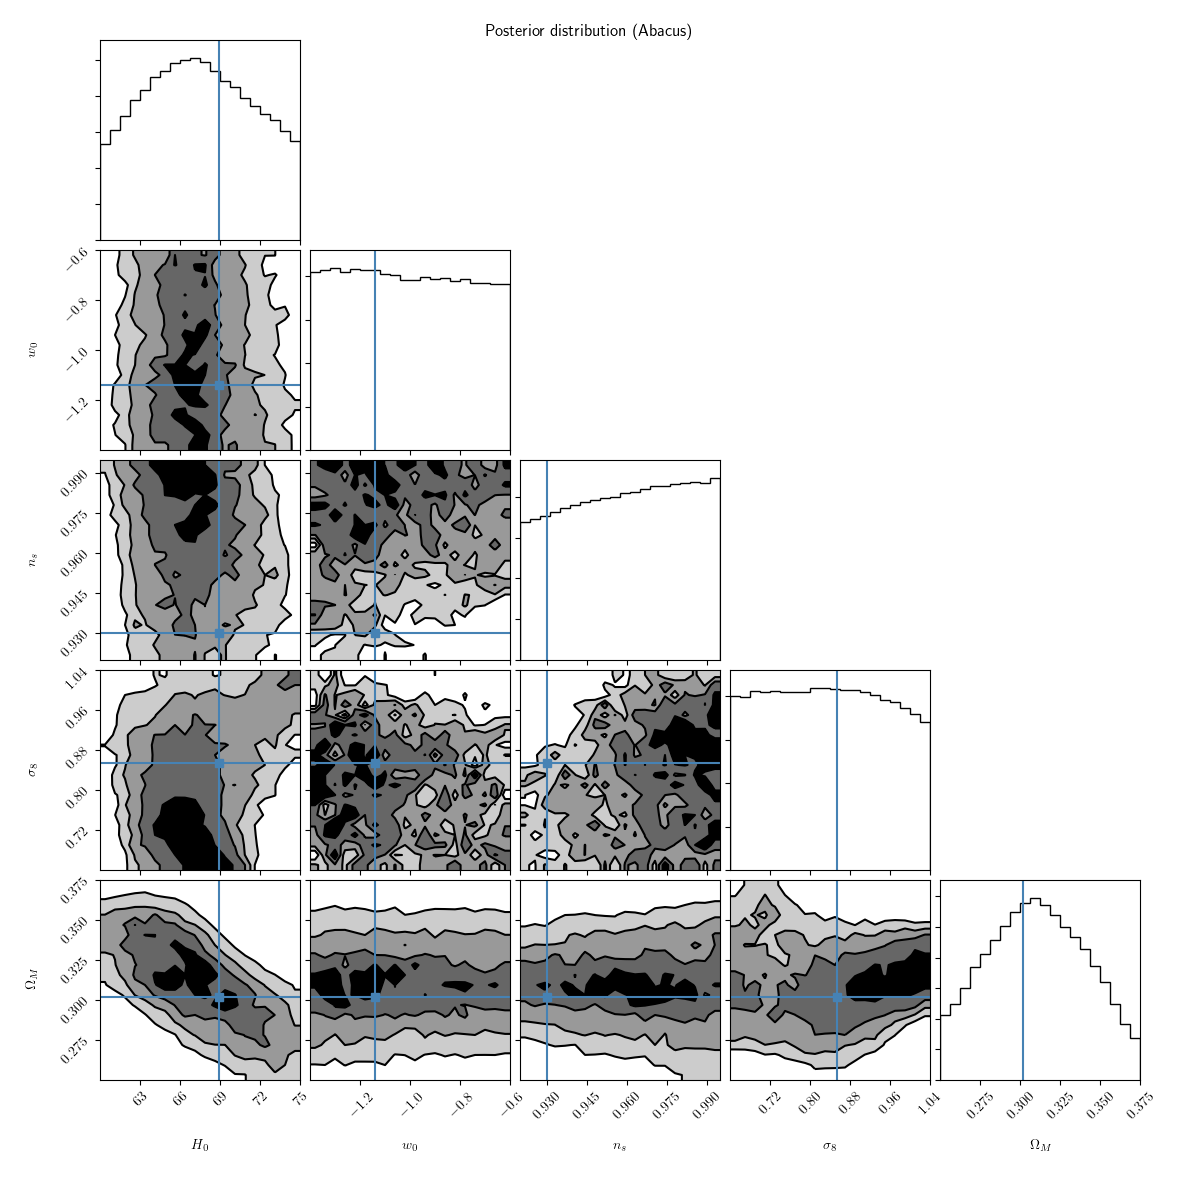
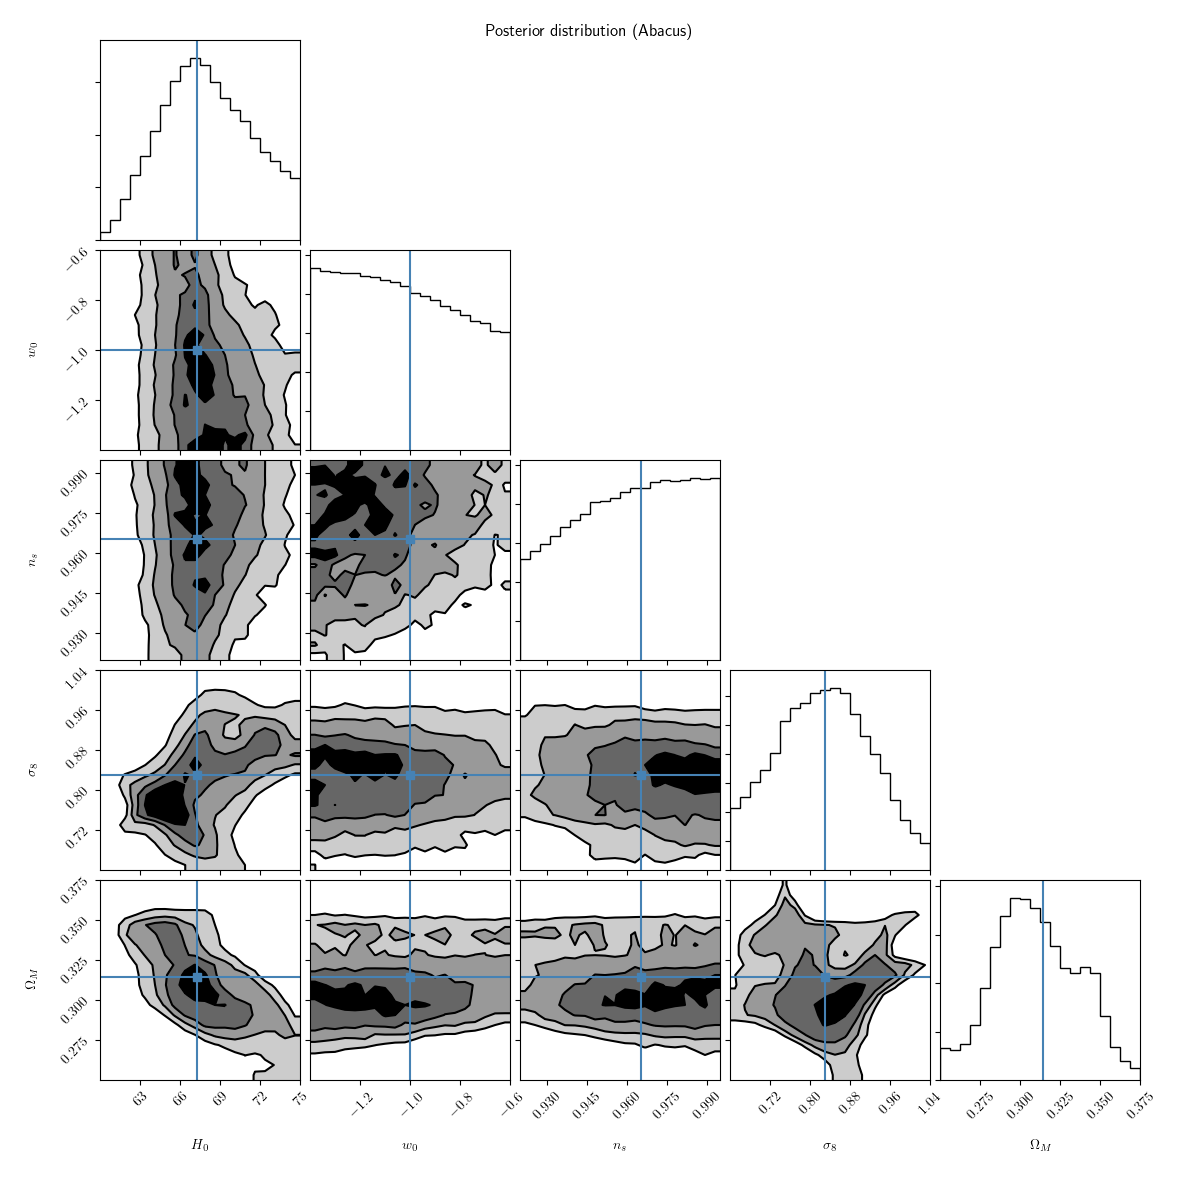
drew figure 12 for l and b, it seems that b is useless but l is very usefull. Need to investigate why, with its noise it should be useless

diff --git a/scripts_EMCEE/draw_figure_12_EMCEE_b.py b/scripts_EMCEE/draw_figure_12_EMCEE_b.py
@@ -6,25 +6,24 @@ import emcee
 import sys
 import os
 import matplotlib
-matplotlib.use('Agg')
 
 import matplotlib.pyplot as plt
 from matplotlib import rc
 rc('text', usetex = True)
 
-sys.path.append('/home/astro/magnan/Repository_Stage_3A')
-#sys.path.append('C:/Users/Nathan/Documents/D - X/C - Stages/Stage 3A/Repository_Stage_3A')
+#sys.path.append('/home/astro/magnan/Repository_Stage_3A')
+sys.path.append('C:/Users/Nathan/Documents/D - X/C - Stages/Stage 3A/Repository_Stage_3A')
 import GP_tools_simple as GP
-os.chdir('/home/astro/magnan')
-#os.chdir('C:/Users/Nathan/Documents/D - X/C - Stages/Stage 3A/Repository_Stage_3A')
+#os.chdir('/home/astro/magnan')
+os.chdir('C:/Users/Nathan/Documents/D - X/C - Stages/Stage 3A/Repository_Stage_3A')
 
 print("All imports successful")
 
 ## Importing the whole Abacus data
 print("starting to load the data")
 
-target = "/home/astro/magnan/Repository_Stage_3A/Full_MST_stats_Abacus/MST_stats_Catalogue_"
-#target = "C:/Users/Nathan/Documents/D - X/C - Stages/Stage 3A/Repository_Stage_3A/Full_MST_stats_Abacus/MST_stats_Catalogue_"
+#target = "/home/astro/magnan/Repository_Stage_3A/Full_MST_stats_Abacus/MST_stats_Catalogue_"
+target = "C:/Users/Nathan/Documents/D - X/C - Stages/Stage 3A/Repository_Stage_3A/Full_MST_stats_Abacus/MST_stats_Catalogue_"
 
 dict = {'X_b' : [], 'Y_b' : [], 'Y_b_std' : []}
 
@@ -42,11 +41,11 @@ print("data fully loaded")
 print("Connexion successfull")
 print("starting to load the data")
 
-target = "/home/astro/magnan/Repository_Stage_3A/data_set_Abacus/data_set_Abacus_"
-#target = 'C:/Users/Nathan/Documents/D - X/C - Stages/Stage 3A/Repository_Stage_3A/data_set_Abacus/data_set_Abacus_'
+#target = "/home/astro/magnan/Repository_Stage_3A/data_set_Abacus/data_set_Abacus_"
+target = 'C:/Users/Nathan/Documents/D - X/C - Stages/Stage 3A/Repository_Stage_3A/data_set_Abacus/data_set_Abacus_'
 
 """
-l = 10->15
+b = 19->24
 """
 
 n_points_per_simulation_complete = 36
@@ -64,11 +63,11 @@ for i in range(n_fiducial + n_simulations):
         Y_data_new[j] = max(Y_data_new[j], 0)
     
     if i == 0:
-        X_b = X_data_new[10 : 15, 0 : 6]
-        Y_b = Y_data_new[10 : 15]
+        X_b = X_data_new[19 : 24, 0 : 6]
+        Y_b = Y_data_new[19 : 24]
     else:
-        X_b = np.concatenate((X_data_new[10 : 15, 0:6], X_b))
-        Y_b = np.concatenate((Y_data_new[10 : 15], Y_b))
+        X_b = np.concatenate((X_data_new[19 : 24, 0:6], X_b))
+        Y_b = np.concatenate((Y_data_new[19 : 24], Y_b))
 
 X_b_planck = X_b[:(n_fiducial) * 5]
 
@@ -246,8 +245,8 @@ print("Starting to define the problem")
 n_dims = 5
 n_walkers = 32
 
-my_path = os.path.abspath('/home/astro/magnan/Repository_Stage_3A/EMCEE/')
-#my_path = os.path.abspath('C:/Users/Nathan/Documents/D - X/C - Stages/Stage 3A/Repository_Stage_3A/EMCEE/')
+#my_path = os.path.abspath('/home/astro/magnan/Repository_Stage_3A/EMCEE/')
+my_path = os.path.abspath('C:/Users/Nathan/Documents/D - X/C - Stages/Stage 3A/Repository_Stage_3A/EMCEE/')
 my_file = 'Figure_12_b'
 my_file = os.path.join(my_path, my_file)
 backend = emcee.backends.HDFBackend(my_file)
@@ -276,7 +275,7 @@ print("MCMC analysis done")
 print("Starting to plot the results")
 
 Coordinates_bimits = [[60, 75], [-1.40, -0.60], [0.920, 0.995], [0.64, 1.04], [0.250, 0.375]]
-Expected_values_01 = X_d_planck[0, 0:5]
+Expected_values_01 = X_b_planck[0, 0:5]
 Expected_values = prior(Expected_values_01)
 Parameters = ['H_{0}', 'w_{0}', 'n_{s}', '\sigma_{8}', '\Omega_{M}']
 
@@ -314,19 +313,19 @@ for i in range(5):
 
 plt.suptitle("Posterior distribution (Abacus)")
 
-my_path = os.path.abspath('/home/astro/magnan/Repository_Stage_3A/Figures')
-#my_path = os.path.abspath('C:/Users/Nathan/Documents/D - X/C - Stages/Stage 3A/Repository_Stage_3A/Figures')
+#my_path = os.path.abspath('/home/astro/magnan/Repository_Stage_3A/Figures')
+my_path = os.path.abspath('C:/Users/Nathan/Documents/D - X/C - Stages/Stage 3A/Repository_Stage_3A/Figures')
 my_file = 'Figure_12_EMCEE_b'
 my_file = os.path.join(my_path, my_file)
 plt.savefig(my_file)
-#plt.show()
+plt.show()
 
 print("Results saved and plotted")
 
 ## Plotting 2
 import corner
 Labels = ['$H_{0}$', '$w_{0}$', '$n_{s}$', '$\sigma_{8}$', '$\Omega_{M}$']
-Expected_values_01 = X_d_planck[0, 0:5]
+Expected_values_01 = X_b_planck[0, 0:5]
 Truths = prior(Expected_values_01)
 
 flat_samples = sampler.get_chain(discard = 0, thin = 2, flat=True)
@@ -334,9 +333,9 @@ flat_samples = sampler.get_chain(discard = 0, thin = 2, flat=True)
 corner.corner(flat_samples, labels = Labels, truths = Truths, plot_datapoints = False, fill_contours = True)
 plt.suptitle("Posterior distribution (Abacus)")
 
-my_path = os.path.abspath('/home/astro/magnan/Repository_Stage_3A/Figures')
-#my_path = os.path.abspath('C:/Users/Nathan/Documents/D - X/C - Stages/Stage 3A/Repository_Stage_3A/Figures')
+#my_path = os.path.abspath('/home/astro/magnan/Repository_Stage_3A/Figures')
+my_path = os.path.abspath('C:/Users/Nathan/Documents/D - X/C - Stages/Stage 3A/Repository_Stage_3A/Figures')
 my_file = 'Figure_12_EMCEE_corner_b'
 my_file = os.path.join(my_path, my_file)
 plt.savefig(my_file)
-#plt.show()
+plt.show()

diff --git a/scripts_EMCEE/draw_figure_12_EMCEE_l.py b/scripts_EMCEE/draw_figure_12_EMCEE_l.py
@@ -275,7 +275,7 @@ print("MCMC analysis done")
 print("Starting to plot the results")
 
 Coordinates_limits = [[60, 75], [-1.40, -0.60], [0.920, 0.995], [0.64, 1.04], [0.250, 0.375]]
-Expected_values_01 = X_d_planck[0, 0:5]
+Expected_values_01 = X_l_planck[0, 0:5]
 Expected_values = prior(Expected_values_01)
 Parameters = ['H_{0}', 'w_{0}', 'n_{s}', '\sigma_{8}', '\Omega_{M}']
 
@@ -325,7 +325,7 @@ print("Results saved and plotted")
 ## Plotting 2
 import corner
 Labels = ['$H_{0}$', '$w_{0}$', '$n_{s}$', '$\sigma_{8}$', '$\Omega_{M}$']
-Expected_values_01 = X_d_planck[0, 0:5]
+Expected_values_01 = X_l_planck[0, 0:5]
 Truths = prior(Expected_values_01)
 
 flat_samples = sampler.get_chain(discard = 0, thin = 2, flat=True)
@@ -338,4 +338,4 @@ my_path = os.path.abspath('C:/Users/Nathan/Documents/D - X/C - Stages/Stage 3A/R
 my_file = 'Figure_12_EMCEE_corner_l'
 my_file = os.path.join(my_path, my_file)
 plt.savefig(my_file)
-#plt.show()
+plt.show()
